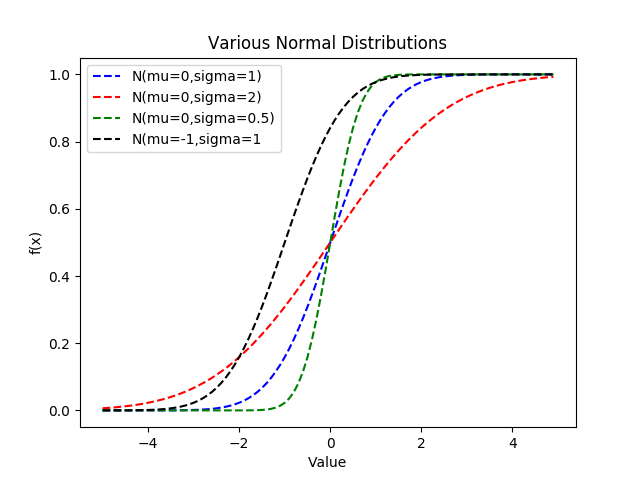
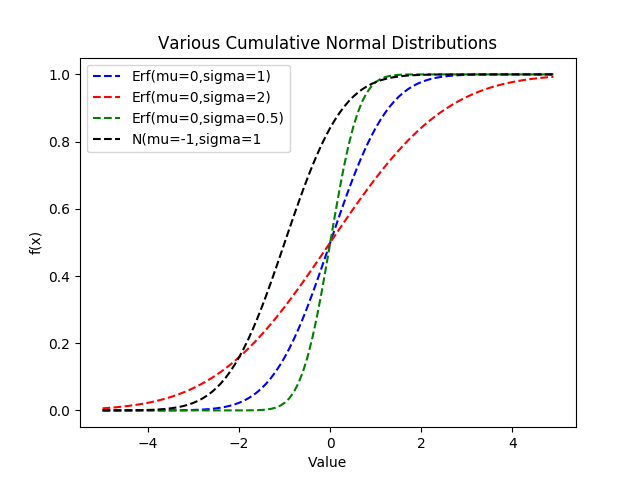
update files

Changed region(s): [[0.1875, 0.0625, 0.7812, 0.2812]]

diff --git a/tutorials/distributions/cnormaldists.py b/tutorials/distributions/cnormaldists.py
@@ -17,10 +17,10 @@ plt.plot(xs, ys1, 'b--')
 plt.plot(xs, ys2, 'r--')
 plt.plot(xs, ys3, 'g--')
 plt.plot(xs, ys4, 'k--')
-plt.title('Various Normal Distributions')
+plt.title('Various Cumulative Normal Distributions')
 plt.ylabel('f(x)')
 plt.xlabel('Value')
-plt.legend(['N(mu=0,sigma=1)', 'N(mu=0,sigma=2)', 'N(mu=0,sigma=0.5)', 
+plt.legend(['Erf(mu=0,sigma=1)', 'Erf(mu=0,sigma=2)', 'Erf(mu=0,sigma=0.5)', 
     'N(mu=-1,sigma=1'])
 plt.show()
 
